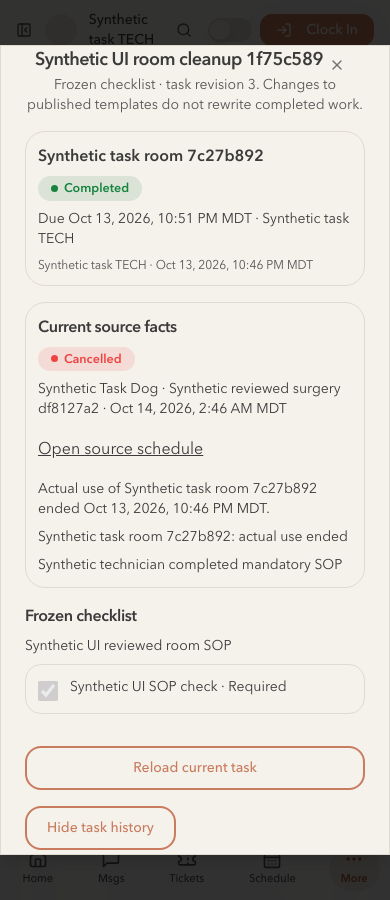
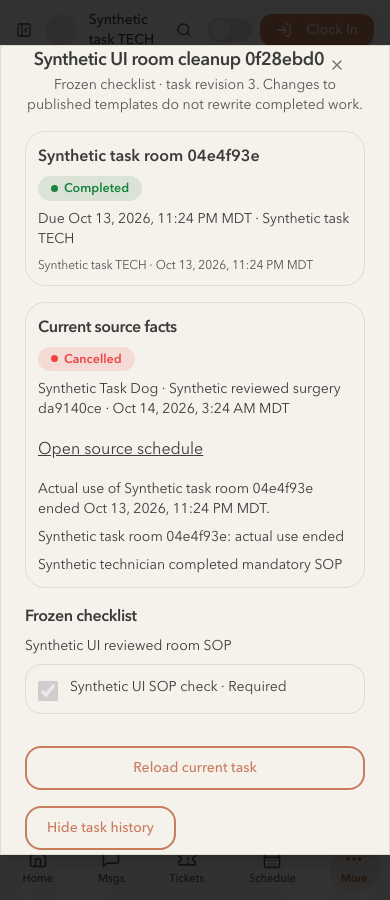
fix(tasks): require explicit timing for exact publication

diff --git a/tests/scheduling/operational-tasks-browser.ts b/tests/scheduling/operational-tasks-browser.ts
@@ -130,7 +130,7 @@ export async function operationalBrowserProof(
         name: new RegExp(room.published.definition.name),
       })
       .check();
-    await page.locator("#task-template-offset").fill("5");
+    await page.locator("#task-template-offset").fill("0");
     await page
       .getByRole("checkbox", { name: "Technician", exact: true })
       .check();
@@ -164,6 +164,19 @@ export async function operationalBrowserProof(
         .isDisabled(),
       true,
     );
+    const attestation = page.getByRole("checkbox", {
+      name: /I reviewed this exact saved checklist/,
+    });
+    await attestation.check();
+    await page.locator("#task-template-offset").fill("");
+    check(await attestation.isDisabled(), true);
+    check(
+      await page
+        .getByRole("button", { name: "Publish reviewed template", exact: true })
+        .isDisabled(),
+      true,
+    );
+    await page.locator("#task-template-offset").fill("0");
     await page
       .locator("#task-template-review-note")
       .fill("Synthetic exact saved draft attestation");

diff --git a/src/hub/features/daily-tasks/TaskTemplateEditor.tsx b/src/hub/features/daily-tasks/TaskTemplateEditor.tsx
@@ -112,7 +112,11 @@ export function TaskTemplateEditor({
     due: {
       ...definition.due,
       offset_minutes:
-        definition.trigger === "resource_day" ? 0 : Number(offset),
+        definition.trigger === "resource_day"
+          ? 0
+          : offset.trim() === ""
+            ? Number.NaN
+            : Number(offset),
     },
   };
   const unchanged =

diff --git a/docs/launch-evidence/2026-10-13-operational-tasks.md b/docs/launch-evidence/2026-10-13-operational-tasks.md
@@ -6,8 +6,10 @@ An appointment cancellation preserves actual use and cleanup work. A veterinaria
 
 Private review envelopes retain exact requests and receipts. Browser storage holds only actor/action/operation identifiers. Lost acknowledgments freeze fields and recover the original saved action; another account cannot adopt it. Current active staff and a live session remain required after permission changes or lock waits. Technician-only eligibility is distinct from ordinary staff and reviewer authority.
 
-[Local receipt](2026-10-13-operational-tasks-local.json) records150 SQL files/6,184 assertions,78 package assertions,54 genuine Auth/API checks,22 real browser checks,2 observed task lock waits and a12-table populated restore. The full parent scheduling regression also passed. The repository check passes lint/type checking,1,395 units and the production build. The full existing browser suite had522 passes,2 failures and1 skip; both failed cases passed focused rechecks without code changes. The local security advisor reported the existing public `pg_net` extension warning and no task-package notices. Owned runtimes and volumes were removed.
+[Local receipt](2026-10-13-operational-tasks-local.json) records150 SQL files/6,184 assertions,78 package assertions,54 genuine Auth/API checks,24 real browser checks,2 observed task lock waits and a12-table populated restore. The full parent scheduling regression also passed. The repository check passes lint/type checking,1,395 units and the production build. The full existing browser suite had522 passes,2 failures and1 skip; both failed cases passed focused rechecks without code changes. The local security advisor reported the existing public `pg_net` extension warning and no task-package notices. Owned runtimes and volumes were removed.
 
 [Phone screenshot — synthetic records](screenshots/2026-10-13-operational-tasks-mobile.png). [Staging preflight](2026-10-13-operational-tasks-staging-preflight.json) identifies exactly one pending canonical migration and a protected backup. No hosted migration184 has been applied yet. Exact-head CI, staging Auth/browser acceptance and cleanup, primary rollback-only acceptance and production/domain verification remain required.
 
 The bounded reconciliation worker and run receipts are the next package. No task generation, worker, delivery or payment commissioning is implied. Every original launch requirement and Susan’s clinical/practice acceptance remain open where their required evidence has not been established. [Full remaining plan](../../plans/2026-10-13-operational-tasks/full-plan-status.md).
+
+The final review corrected named component prop interfaces and blank zero-minute timing. All five interface-only files produce identical runtime JavaScript. The saved-zero draft now disables review/publication when its timing is cleared; a focused real-browser replay passes54 API,2 observed locks and24 browser checks, plus populated restore. Final `npm run check` passes1,395 units. Exact-head CI must cover this final safeguard before hosted installation.

diff --git a/plans/2026-10-13-operational-tasks/full-plan-status.md b/plans/2026-10-13-operational-tasks/full-plan-status.md
@@ -6,7 +6,7 @@ The original scope is all25 October requests and20 substantive housecall request
 
 | Remaining package | Current evidence / next work |
 |---|---|
-| 4B operational templates, resource use and generation | Local migration184, reviewed template/use staff UI and strict recovery contracts implemented. 150 SQL files/6,184 assertions,54 Auth/API checks,22 genuine browser checks,2 observed lock queues,12-table populated restore,11 model tests and the full repository check with1,395 units pass. Exact-head CI and staged rollout remain required. |
+| 4B operational templates, resource use and generation | Local migration184, reviewed template/use staff UI and strict recovery contracts implemented. 150 SQL files/6,184 assertions,54 Auth/API checks,24 genuine browser checks,2 observed lock queues,12-table populated restore,11 model tests and the full repository check with1,395 units pass. Exact-head CI and staged rollout remain required. |
 | 4C daily tasks and reconciliation | Home/Schedule queues, full task list, role/assignee/overdue/completion controls are included in the current local staff package. Bounded reconciliation worker/run receipts and commissioning remain pending. |
 | 5 supplier imports, iPhone scanning, controlled drugs | Inspect current ledgers; implement native preview/mapping/barcode/witness workflows; actual supplier samples and label/witness acceptance remain required. |
 | 6 unpaid reminders, production and financing | Native terms/final-balance reminders and net-invoiced effective-rate attribution pending. Stripe selected; verify actual supported financing and settlement/refund route. |

diff --git a/plans/2026-10-13-operational-tasks/plan.md b/plans/2026-10-13-operational-tasks/plan.md
@@ -31,4 +31,4 @@ All45 original launch requirements and Susan's final workflow acceptance remain 
 
 Build on existing Router7, current staff/session authorization, strict Zod DTOs, canonical scheduling and owned disposable tests. Do not generate Lovable's `types.ts`. Dave provided standing approval on October13 to review and merge all additional PRs as part of completing the full plan; review, checks and staged rollout remain required. Provider commissioning and worker activation are separate from applying a migration.
 
-Current checkpoint:150 SQL files/6,184 assertions;78 package assertions;54 real Auth/API checks;22 actual browser checks;2 observed locks; populated12-table restore;11 model tests; the full repository check with1,395 units passes. [Staff local receipt](../../docs/launch-evidence/2026-10-13-operational-tasks-local.json) records the broad browser run and two successful focused rechecks. [Full remaining scope](full-plan-status.md) retains all45 requirements. Generation remains off on hosted backends.
+Current checkpoint:150 SQL files/6,184 assertions;78 package assertions;54 real Auth/API checks;24 actual browser checks;2 observed locks; populated12-table restore;11 model tests; the full repository check with1,395 units passes. [Staff local receipt](../../docs/launch-evidence/2026-10-13-operational-tasks-local.json) records the broad browser run and two successful focused rechecks. [Full remaining scope](full-plan-status.md) retains all45 requirements. Generation remains off on hosted backends.
